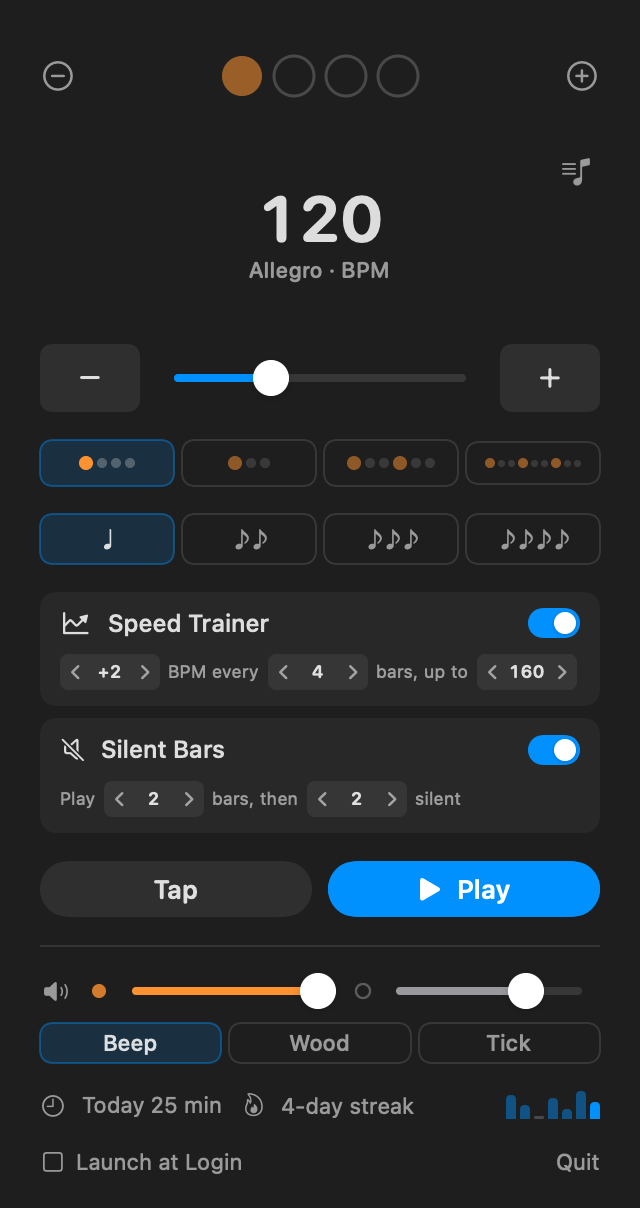
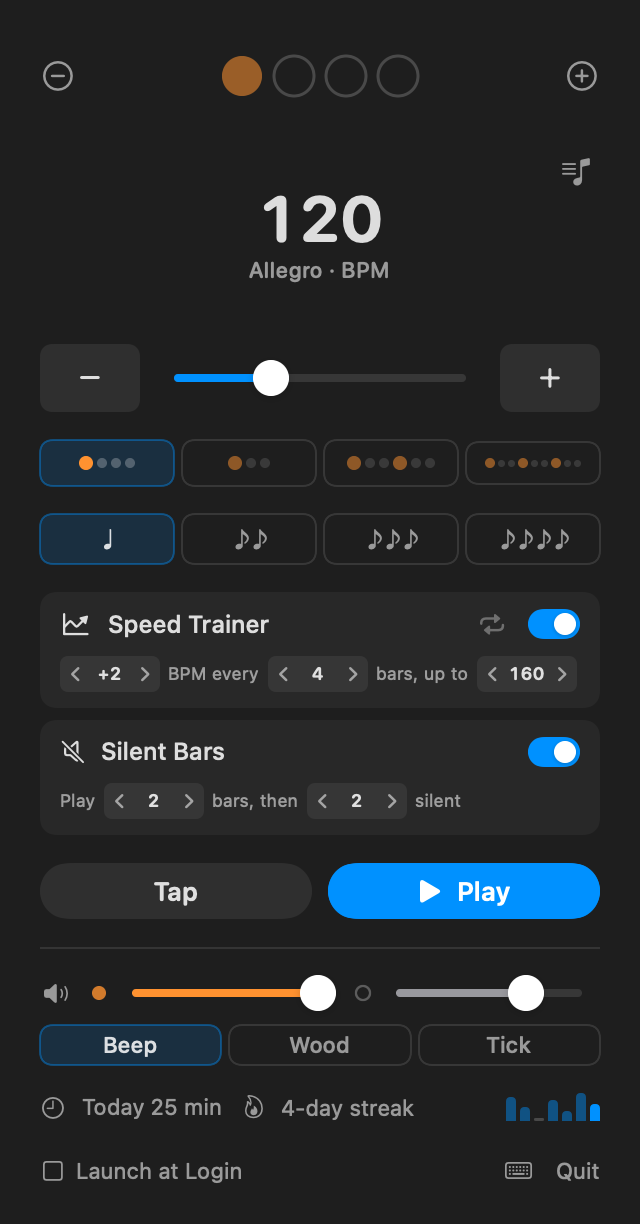
build: script to refresh all landing page screenshots

diff --git a/docs/index.html b/docs/index.html
@@ -61,7 +61,7 @@
         <div class="screenshot-wrapper">
           <picture>
             <source srcset="screenshot-dark.png" media="(prefers-color-scheme: dark)">
-            <img src="screenshot.png" alt="Pulstick popover: beat dots, 120 BPM marked Allegro, time signature and subdivision buttons, speed trainer and silent bars settings, Tap and Play buttons" class="screenshot" width="320" height="604" />
+            <img src="screenshot.png" alt="Pulstick popover: beat dots, 120 BPM marked Allegro, time signature and subdivision buttons, speed trainer and silent bars settings, Tap and Play buttons" class="screenshot" width="320" height="612" />
           </picture>
         </div>
       </div>

diff --git a/README.md b/README.md
@@ -36,6 +36,7 @@ Requires Xcode (the SwiftUI macros are not in the Command Line Tools alone). `bu
 swift test                   # unit tests (silent: they never play audio)
 .build/debug/Pulstick --snapshot out.png [--dark] [--beats N] [--trainer] [--gap] [--log] [--songs] [--muted] [--shortcuts] [--timer] [--contrast]
                              # render the popover to a PNG without launching the app
+./scripts/update-screenshots.sh  # refresh the landing page screenshots (English and Japanese)
 ```
 
 ## Release
